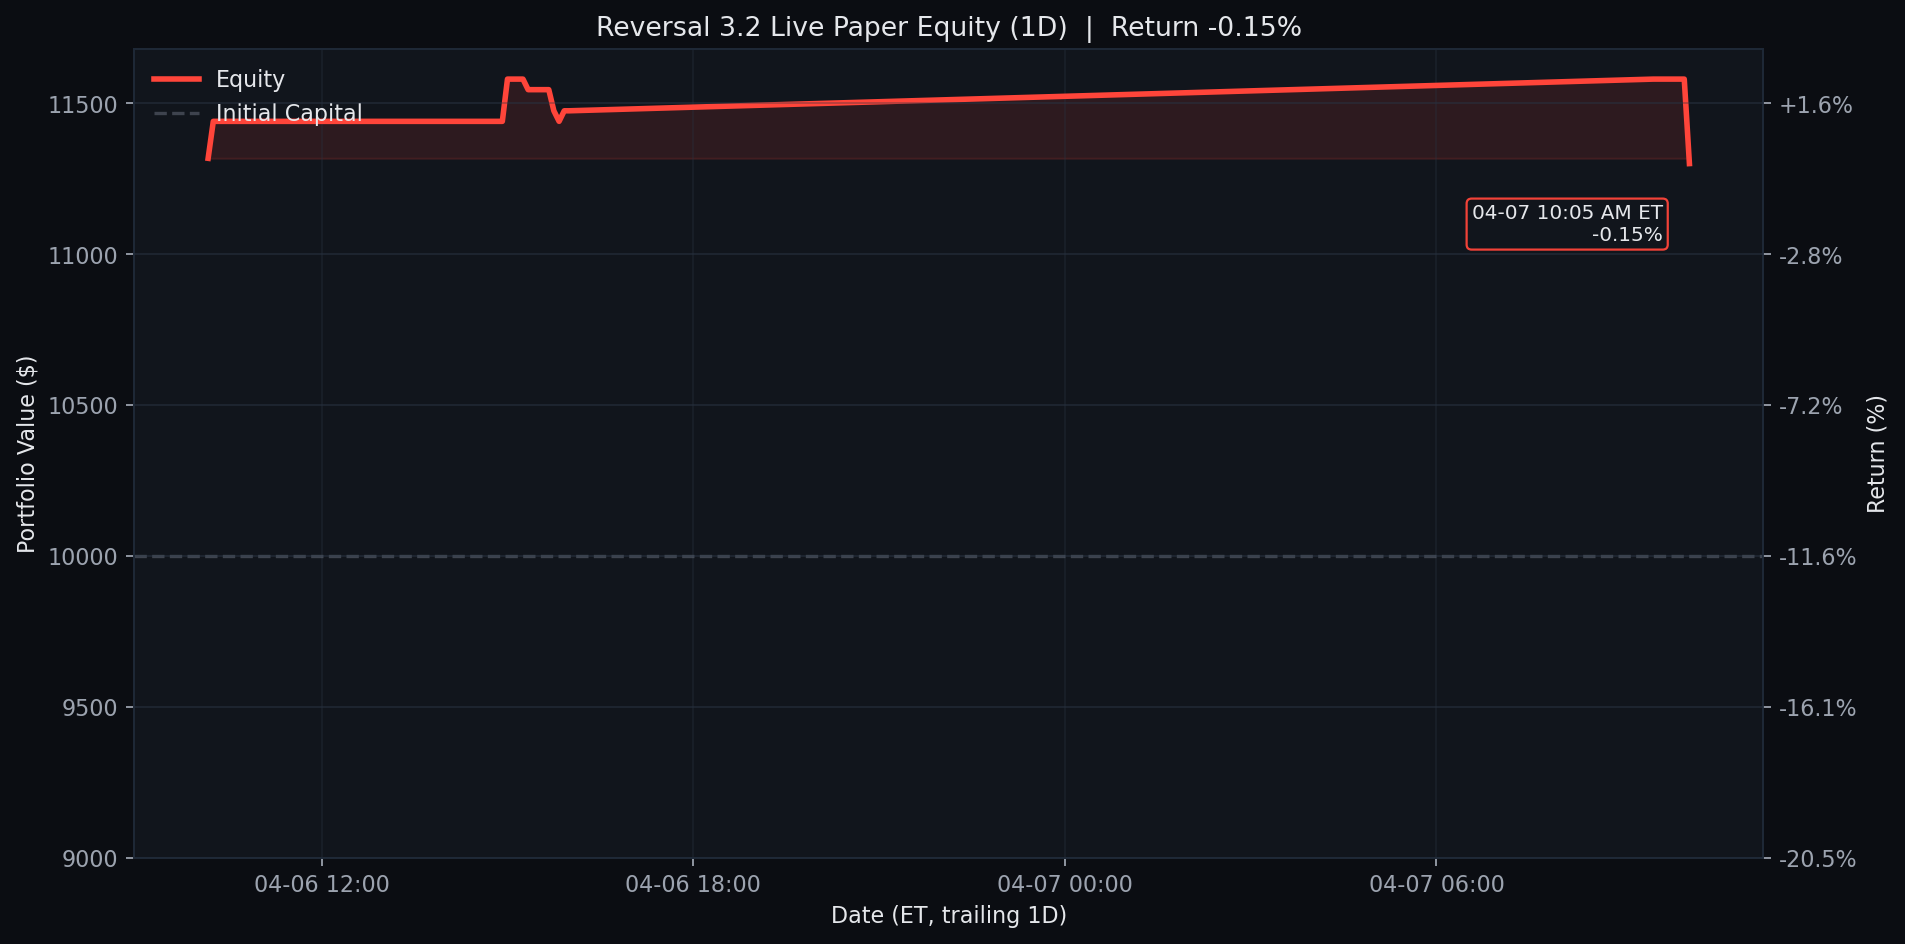
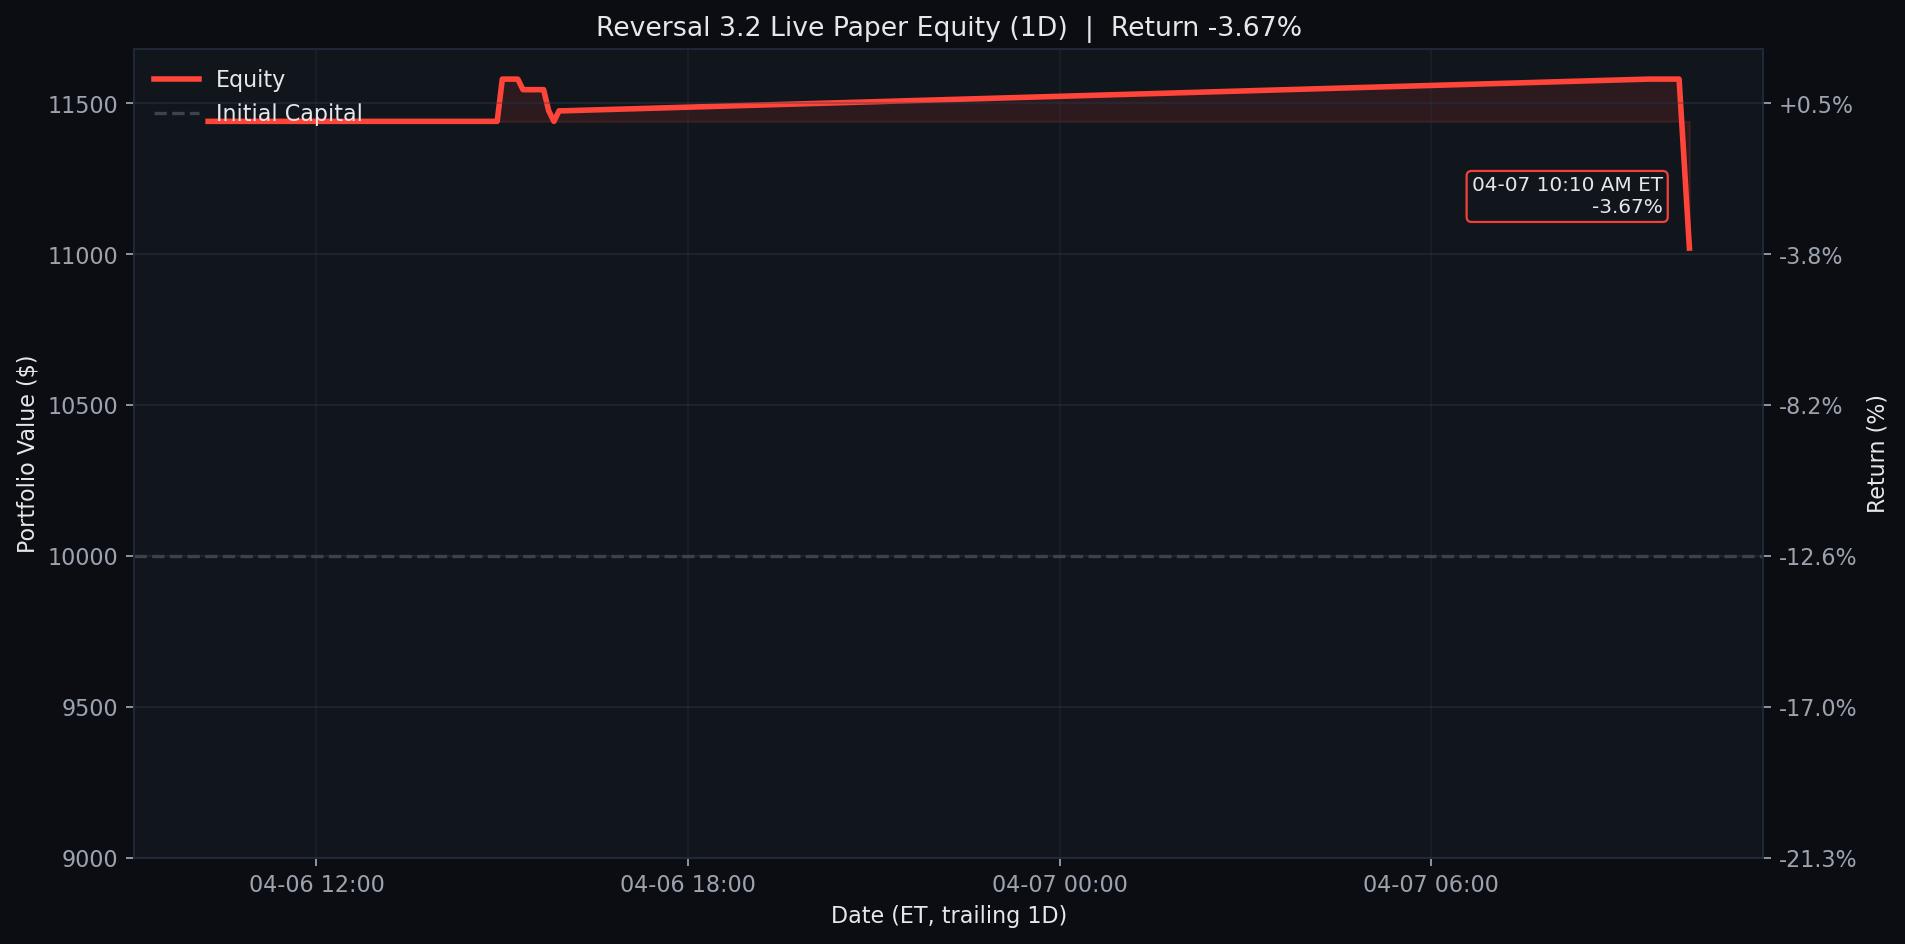
Update Reversal 3.2 live paper test 2026-04-07 10:10 ET

diff --git a/results/reversal_3_2_live/README.md b/results/reversal_3_2_live/README.md
@@ -1,6 +1,6 @@
 # Reversal 3.2 Live Paper Test
 
-Last updated (ET): `2026-04-07 10:05:05 EDT`
+Last updated (ET): `2026-04-07 10:10:05 EDT`
 Last processed slot: `manage_1000`
 
 ## Active Configuration
@@ -20,16 +20,16 @@ Last processed slot: `manage_1000`
 ## Portfolio Snapshot
 
 - Cash: `$6,260.00`
-- Equity: `$11,300.00`
+- Equity: `$11,020.00`
 - Realized PnL: `$1,440.00`
-- Unrealized PnL: `$-140.00`
+- Unrealized PnL: `$-420.00`
 - Open positions: `1`
 
 ## Open Positions
 
 ```text
 ticker    contract_symbol entry_trade_date  business_days_held  contracts  cash_spent  current_position_value  entry_option_price  current_option_price  entry_spot  current_spot  unrealized_pnl  unrealized_return_pct  success_rate  matched_signals  current_drop_pct  entry_iv_pct  current_iv_pct  rolling_sigma_20d_pct
-   HON HON260515C00230000       2026-04-06                   1          7      5180.0                  5040.0                 7.4                   7.2      227.61         224.9          -140.0                   -2.7         100.0               20               0.8         28.89           36.28                  20.57
+   HON HON260515C00230000       2026-04-06                   1          7      5180.0                  4760.0                 7.4                   6.8      227.61        225.21          -420.0                  -8.11         100.0               20               0.8         28.89           33.06                  20.57
 ```
 
 ## Today's Closed Trades (2026-04-07)
@@ -40,24 +40,25 @@ _None_
 
 ```text
 ticker  success_rate_%  matched_signals  current_drop_%  target_rebound_$  target_price  rolling_sigma_20d_%  call_candidate
-  TSLA          100.00               15            3.30              8.15        349.33                42.33            True
-   HON          100.00               10            1.41              2.25        227.25                20.19            True
-   WDC           96.77               31            2.48              5.28        301.89                83.06            True
-  MRVL           95.65               23            2.71              2.08        108.62                70.84            True
-  NVDA           95.65               23            1.70              2.11        176.74                33.70            True
-  REGN           95.65               23            1.32              7.06        760.01                25.24            True
-   STX           94.29               35            1.70              5.38        450.99                74.75            True
-  MPWR           90.32               31            1.51             12.45       1174.70                51.99            True
-  ABNB           90.00               30            1.38              1.23        126.28                36.80            True
-  FAST           90.00               30            0.83              0.27         45.76                20.98            True
-  UPRO           90.00               20            2.97              2.09         99.84                53.86            True
-  CDNS           89.13               46            0.54              1.06        278.93                25.26            True
+  TSLA          100.00               13            3.41              8.42        349.21                42.33            True
+   HON          100.00               10            1.40              2.24        227.25                20.19            True
+   WDC           97.06               34            1.71              3.65        302.59                83.06            True
+  REGN           95.83               24            1.29              6.87        760.10                25.24            True
+  MRVL           95.65               23            2.61              2.00        108.65                70.84            True
+   STX           94.87               39            0.93              2.95        452.03                74.75            True
+  NVDA           91.67               24            1.50              1.87        176.84                33.70            True
+  MPWR           91.43               35            1.03              8.55       1176.37                51.99            True
+  CDNS           90.91               44            0.83              1.62        278.69                25.26            True
+  UPRO           90.00               20            2.95              2.08         99.85                53.86            True
+  PCAR           88.89               36            0.80              0.66        118.04                21.97            True
+  FAST           88.89               27            0.89              0.29         45.75                20.98            True
 ```
 
 ## Recent Events
 
 ```text
                     timestamp_et         slot   event_type                          detail
+2026-04-07T10:10:05.890428-04:00  manage_1000 slot_skipped {"reason": "already_processed"}
 2026-04-07T10:05:05.888815-04:00  manage_1000 slot_skipped {"reason": "already_processed"}
 2026-04-07T10:00:05.892155-04:00  manage_1000 slot_skipped {"reason": "already_processed"}
 2026-04-07T09:55:05.880017-04:00  manage_1000 slot_skipped {"reason": "already_processed"}
@@ -67,7 +68,6 @@ ticker  success_rate_%  matched_signals  current_drop_%  target_rebound_$  targe
 2026-04-06T16:00:05.887844-04:00  manage_1600 slot_skipped {"reason": "already_processed"}
 2026-04-06T15:55:05.885666-04:00  manage_1600 slot_skipped {"reason": "already_processed"}
 2026-04-06T15:40:05.890163-04:00  manage_1530 slot_skipped {"reason": "already_processed"}
-2026-04-06T15:35:05.886061-04:00  manage_1530 slot_skipped {"reason": "already_processed"}
 ```
 
 ## Equity Curves
@@ -77,20 +77,20 @@ Each chart is generated from the same live equity series with no-lookahead marks
 <details>
 <summary><strong>1D</strong></summary>
 
-![Reversal 3.2 Live Equity 1D](../../assets/reversal_3_2_live_equity_1d.png?v=20260407100505)
+![Reversal 3.2 Live Equity 1D](../../assets/reversal_3_2_live_equity_1d.png?v=20260407101005)
 
 </details>
 
 <details open>
 <summary><strong>1W</strong></summary>
 
-![Reversal 3.2 Live Equity 1W](../../assets/reversal_3_2_live_equity.png?v=20260407100505)
+![Reversal 3.2 Live Equity 1W](../../assets/reversal_3_2_live_equity.png?v=20260407101005)
 
 </details>
 
 <details>
 <summary><strong>1M</strong></summary>
 
-![Reversal 3.2 Live Equity 1M](../../assets/reversal_3_2_live_equity_1m.png?v=20260407100505)
+![Reversal 3.2 Live Equity 1M](../../assets/reversal_3_2_live_equity_1m.png?v=20260407101005)
 
 </details>

diff --git a/README.md b/README.md
@@ -3,8 +3,8 @@
 <!-- reversal-3.2-live:start -->
 ## Reversal 3.2 Live Paper Test
 
-- Last updated (ET): `2026-04-07 10:05:05 EDT`
-- Equity: `$11,300.00` | Realized: `$1,440.00` | Unrealized: `$-140.00` | Open positions: `1`
+- Last updated (ET): `2026-04-07 10:10:05 EDT`
+- Equity: `$11,020.00` | Realized: `$1,440.00` | Unrealized: `$-420.00` | Open positions: `1`
 - Today closed trades: `0`
 - Current slot: `manage_1000`
 - Universe: `qqq_plus_leverage_etfs`
@@ -14,27 +14,27 @@
 
 ```text
 ticker    contract_symbol  contracts  cash_spent  current_position_value  current_option_price  unrealized_pnl  unrealized_return_pct  business_days_held
-   HON HON260515C00230000          7      5180.0                  5040.0                   7.2          -140.0                   -2.7                   1
+   HON HON260515C00230000          7      5180.0                  4760.0                   6.8          -420.0                  -8.11                   1
 ```
 
 <details>
 <summary><strong>1D</strong></summary>
 
-![Reversal 3.2 Live Equity 1D](assets/reversal_3_2_live_equity_1d.png?v=20260407100505)
+![Reversal 3.2 Live Equity 1D](assets/reversal_3_2_live_equity_1d.png?v=20260407101005)
 
 </details>
 
 <details open>
 <summary><strong>1W</strong></summary>
 
-![Reversal 3.2 Live Equity 1W](assets/reversal_3_2_live_equity.png?v=20260407100505)
+![Reversal 3.2 Live Equity 1W](assets/reversal_3_2_live_equity.png?v=20260407101005)
 
 </details>
 
 <details>
 <summary><strong>1M</strong></summary>
 
-![Reversal 3.2 Live Equity 1M](assets/reversal_3_2_live_equity_1m.png?v=20260407100505)
+![Reversal 3.2 Live Equity 1M](assets/reversal_3_2_live_equity_1m.png?v=20260407101005)
 
 </details>
 
